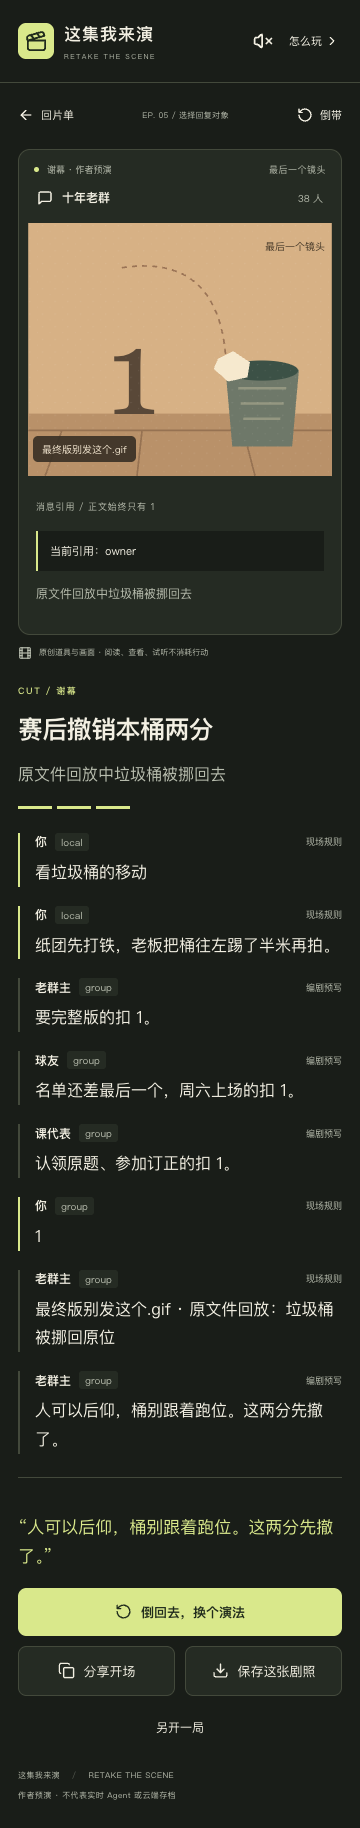
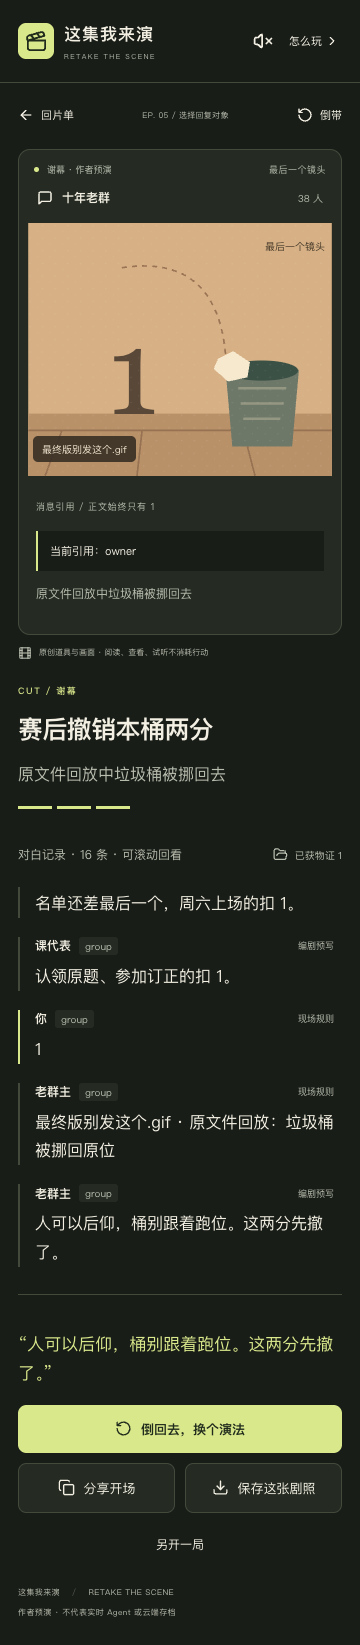
Refresh A handoff visuals with reproducible source provenance

diff --git a/tests/e2e/game.spec.ts b/tests/e2e/game.spec.ts
@@ -111,7 +111,7 @@ test('扣1引用草稿可撤回改选，确认前不落拍且正文固定', asyn
   await expect(draft.locator('.quote-parent')).toContainText('周六打球差一个');
   await expect(draft).toContainText('球友的球局楼');
   expect(await page.evaluate(() => localStorage.getItem('retake.authored.v1'))).toBe(saved);
-  await page.screenshot({ path: testInfo.outputPath('reply-draft.png'), fullPage: true });
+  await page.screenshot({ path: process.env.CAPTURE_EVIDENCE ? 'docs/evidence/reply-draft.png' : testInfo.outputPath('reply-draft.png') });
   await draft.getByRole('button', { name: '确认引用并发送 1' }).click();
   await expect(page.locator('[data-action="inspect_frame"]')).toBeEnabled();
   await page.locator('[data-action="inspect_frame"]').click();
@@ -158,7 +158,7 @@ test('倒回首拍后仍能从界面对照与回看旧线，不提交新动作',
   await expect(page.locator('.rewind-list').first().getByRole('button')).toHaveCount(0);
   await page.getByRole('button', { name: '对照：婚礼现场返工版' }).click();
   await expect(page.locator('.branch-compare')).toContainText('玩家可见的第一处差异');
-  await page.screenshot({ path: testInfo.outputPath('first-beat-replay.png'), fullPage: true });
+  await page.screenshot({ path: process.env.CAPTURE_EVIDENCE ? 'docs/evidence/first-beat-replay.png' : testInfo.outputPath('first-beat-replay.png') });
   await page.locator('.rewind-list').nth(1).getByRole('button', { name: /婚礼现场返工版/ }).click();
   await expect(page).toHaveURL(oldRoute);
   await expect(page.locator('.dialogue-line p')).toHaveText(oldEvents);
@@ -431,6 +431,7 @@ test('固定A/B交接状态可直接打开，不修改本机存档', async ({ pa
     await page.goto(`/#/preview/${state}`);
     await expect(page.locator('.play-page')).toBeVisible();
     await expect(page.locator('.play-topline')).toContainText('固定交接预览');
+    if (process.env.CAPTURE_EVIDENCE) await page.screenshot({ path: `docs/evidence/preview-${state}.png`, fullPage: true });
   }
   expect(await page.evaluate(() => localStorage.getItem('retake.authored.v1'))).toBeNull();
 });
@@ -522,7 +523,10 @@ test('首页多尺寸无横滚，主题变量在实际页面生效', async ({ pa
   for (const width of [360, 768, 1440]) {
     await page.setViewportSize({ width, height: 780 });
     expect(await page.evaluate(() => document.documentElement.scrollWidth <= innerWidth)).toBe(true);
-    if (process.env.CAPTURE_EVIDENCE) await page.screenshot({ path: `docs/evidence/catalog-${width}.png`, fullPage: true });
+    if (process.env.CAPTURE_EVIDENCE) {
+      await page.evaluate(() => new Promise<void>(resolve => requestAnimationFrame(() => requestAnimationFrame(() => resolve()))));
+      await page.screenshot({ path: `docs/evidence/catalog-${width}.png`, fullPage: true });
+    }
   }
   await page.evaluate(() => {
     document.documentElement.style.setProperty('--site-accent', '#123456');

diff --git a/docs/AB-HANDOFF.md b/docs/AB-HANDOFF.md
@@ -28,9 +28,9 @@
 | 扣1点选后确认、草稿改选（工程稿5.5/T07） | 引用原消息与固定正文草稿；取消及Escape不写存档；跨楼最终接龙验证2条reply_sent与实际父消息因果；站点模拟父消息缺失时拒绝及断网原参数重试 | 本机通过；真实触屏设备待验 |
 | 片单上次结局（设计稿1）与首拍旧线入口（工程稿3） | 新局/分支未结束时保留上次结局且继续新路由；完成新结局后替换；首拍经界面对照和回看旧线，不用直接跳旧URL代替入口 | 本机通过 |
 | 360px、静音、全五集键盘 | 15手机路径默认静音；5项真实Tab/Enter从片单到结局，均开启减少动画并检查无横滚 | 本机通过；不以单集通过代替全五集 |
-| 封面与投稿材料 | 4张实际下载封面、15手机截图、五部分作品帖草稿；新增7项分享/封面失败路径及360px临时截图走读 | 本机素材与降级路径已交；真实手机、账号、Qoder过程证据与正式链接待补 |
+| 封面与投稿材料 | 29张最新界面素材及来源清单（见下文）、五部分作品帖草稿；7项分享/封面失败路径与实际PNG下载检查 | 本机素材与降级路径已交；真实手机、账号、Qoder过程证据与正式链接待补 |
 | 接真接口、公开五集抽检、线上盲玩 | 工程稿11/22、11/26–29及发布验收要求 | 依赖 B 真实入口/候选发布和真实访客，未完成 |
-| A/B交流与及时回填 | 本文含版本、请求、字段、命令、结果、限制与接入步骤；A源码提交 `6eb9032` 已授权推送并核对远程SHA | 工作分支已远程交付；未合入 main、未创建远程工单或PR |
+| A/B交流与及时回填 | 本文含版本、请求、字段、命令、素材来源、结果、限制与接入步骤；界面源码 `fbd41a7` 已授权推送并核对远程SHA | 工作分支已远程交付；未合入 main、未创建远程工单或PR |
 
 ## B 首批接口交接
 
@@ -102,9 +102,35 @@
 
 - 2026-11-19 21:43–21:50：按原要求审计并复现4项失败：扣1无草稿、首拍倒带后入口禁用、倒带/另开清掉片单上次结局。修复后新增4项作者预演/UI与2项站点模拟检查，覆盖取消和Escape零写入、跨楼确认的实际父消息因果、父消息不可见时禁止发送、断网原楼层重试、首拍旧线只读回看及片单结局更新。新增测试最初误用楼层模板ID和非原文，已改为当前投影事件ID与作者原文，未改原始验收JSON。360px草稿与首拍旧线截图已走读；全量命令通过62/62单测、75/75本机浏览器检查（2.4分钟）、双模式构建与站点排除门禁。当前43项作者预演/UI、32项站点模拟。真实抽检已同步扣1键盘确认，仅列出6项检查，未运行真实候选版；远端只读查询仍只有main与A分支、没有开放PR，不推断B在其他位置的工作状态。
 
+## 当前素材与来源
+
+`docs/evidence/` 共29张PNG，对应界面源码 `fbd41a76771ba34aa7648cbf71f7cd5cad101e2f`、契约1.0、剧包1.0.0。2026-11-19 21:53–21:59（北京时间）由本机Chrome独立上下文采集，默认静音；本次只调整截图采集脚本，没有改动运行代码或剧包。手机视口为360×780，全页截图允许高度超过780；滚动对白框显示当时可见片段，不代表截图包含全部历史。
+
+| 素材 | 文件 | 尺寸与边界 |
+|---|---|---|
+| 15个作者结局 | `{wedding,office,romance,hiss,reply}-{01,02,03}-mobile.png` | 宽360的全页截图；对应原始15条路径，不是真实云角色生成 |
+| 三尺寸片单 | `catalog-{360,768,1440}.png` | 分别宽360/768/1440，全页；不代表三种真实设备 |
+| 四张下载封面 | `wedding-01-cover.png`、`romance-03-cover.png`、`hiss-02-cover.png`、`reply-02-cover.png` | 均900×1200；实际下载文件已保存，不是下载按钮的截图 |
+| 五种固定交接状态 | `preview-{ready,pending,consent,ended,rewind}.png` | 宽360全页；明确标记固定预览，不写存档；pending不是实际等待中的云任务 |
+| 扣1撤回改选后的草稿 | [reply-draft.png](./evidence/reply-draft.png) | 360×780当前视口；原消息、固定正文和确认/撤回按钮 |
+| 首拍旧线入口与对照 | [first-beat-replay.png](./evidence/first-beat-replay.png) | 360×780当前视口；弹窗可滚动，截图不声称展示全部对照文本 |
+
+采集命令与实际结果：
+
+```sh
+PLAYWRIGHT_CHANNEL=chrome CAPTURE_EVIDENCE=1 npm run test:e2e -- tests/e2e/game.spec.ts --grep '作者预演 |扣1引用草稿|倒回首拍后|仅键盘与减少动画|固定A/B交接|首页多尺寸'
+# 20/20通过（43.5秒）；build:site、类型检查及预演产物排除门禁通过
+PLAYWRIGHT_CHANNEL=chrome CAPTURE_EVIDENCE=1 npm run test:e2e -- tests/e2e/game.spec.ts --grep '首页多尺寸'
+# 片单采集修正后1/1通过（1.7秒），重新生成三种尺寸
+```
+
+图像走读发现首次768/1440片单截出了重复页头；独立浏览器DOM只有一个页头和片单，重新打开的页面显示正常。采集脚本改为视口变化后等待重绘，再截图；复采的三种尺寸已逐张打开确认正常，没有为截图改动产品界面。29张均核对PNG格式、文件数和尺寸；人工走读16张：五种固定状态、两个弹窗、三种片单、`wedding-01`/`office-01`/`romance-03`/`hiss-02`/`reply-02`手机结局及婚礼封面。其余13张未在本轮逐张人工走读，15条结局路径均有浏览器断言。
+
+这次20项采集与1项复采不新增或替代21:50的62项单测/75项浏览器全量通过记录。所有归档图仅证明本机预演或固定UI；不能用作实际手机、Qoder开发过程、Cloud Agents运行或公开发布证据。真实联调、盲玩与投稿缺项维持未完成。
+
 ## 本机交付与 B 接入步骤
 
-- 2026-11-19经用户明确授权，A源码提交 `6eb9032931af59ed1c997767ce1af84604a1fc45` 已推送到 `origin/codex/a-playable-platform`；`git ls-remote` 回执与本机提交一致。首批A代码与测试基线为 `6eb9032`（62单测/34浏览器检查）；恢复、倒带、迟到响应与分享封面降级补丁及最新记录继续沿同一工作分支交付，真实抽检入口准备提交为 `6b8419d`；分享封面补丁为 `6e2f00f`，完整回看与物证入口为已推送并核对远程SHA的 `e32a3a5`；回执前原操作反馈为已推送的 `2fc6b6e`；引用草稿、首拍旧线入口与片单结局保留沿本分支交付，请使用最新提交并以当前62/75本机验收记录为准。
+- 2026-11-19经用户明确授权，A源码提交 `6eb9032931af59ed1c997767ce1af84604a1fc45` 已推送到 `origin/codex/a-playable-platform`；`git ls-remote` 回执与本机提交一致。首批A代码与测试基线为 `6eb9032`（62单测/34浏览器检查）；恢复、倒带、迟到响应与分享封面降级补丁及最新记录继续沿同一工作分支交付，真实抽检入口准备提交为 `6b8419d`；分享封面补丁为 `6e2f00f`，完整回看与物证入口为已推送并核对远程SHA的 `e32a3a5`；回执前原操作反馈为已推送的 `2fc6b6e`；引用草稿、首拍旧线入口与片单结局保留为已推送并核对远程SHA的 `fbd41a7`；本轮29张素材与来源记录沿同一分支交付，请使用最新提交并以当前62/75本机验收记录为准。
 - `main` 仍为 `25f4f0b`，没有合入 A 工作分支；没有创建 PR、Issue、发布站点或投稿。此前 GitHub API 复核未发现 B 交付，目前真实接口和公开候选版仍待 B 提供。
 - B 在自己的仓库执行 `git fetch origin codex/a-playable-platform`，确认该远程分支后在无未提交改动的工作区切换或新建联调分支；不要在 main 直接覆盖已有工作。以 `6eb9032` 的 A契约和剧包为首批接入基线，按下述步骤运行。
 - 在仓库根目录执行 `npm ci`、`npm run dev`，默认查看本机作者预演。查看固定交接状态：`/#/preview/ready`、`pending`、`consent`、`ended`、`rewind`；固定视图不修改存档。

diff --git a/docs/A-SUBMISSION-DRAFT.md b/docs/A-SUBMISSION-DRAFT.md
@@ -23,7 +23,9 @@
 
 ## 4. Qoder 开发与部署证据
 
-已归档本机浏览器证据：`docs/evidence/` 中15个结局手机全页截图、360/768/1440px片单截图和4张实际下载封面。构建、62项单测与75项浏览器检查已有通过记录，含五集真实Tab/Enter、静音及减少动画通关，以及恢复失败显式另开、旧局回读、倒带原请求重试、切页后迟到响应隔离，以及分享/封面失败时的手动复制和截图指引；其中32项站点检查使用模拟响应，只证明客户端行为；新增200/202回执前的原动作反馈，未确认提交不混入已发生对白，不提前宣称演员已接收。扣“1”已补提交前引用草稿和撤回改选，正文固定且确认前无写入；首拍倒带后仍可从界面回读旧线与对照，片单上次结局不被未结束新局覆盖。相关6项新增浏览器检查包含本机父消息因果及模拟站点原请求重试，不代表实际触屏设备通过。另有猫回环后完整对白及旧线回看检查，三种状态下物证可键盘打开、记录保持提交顺序且不产生写请求。7项分享/封面检查以本机固定结局复现浏览器能力失败，不是实际手机或公开站点通过证明；首批归档截图不代表最新对白区布局，最新临时截图仍属于本机回归。
+已归档本机浏览器证据：[素材目录](./evidence/) 中15个结局手机全页截图、360/768/1440px片单截图、4张实际下载封面、5种固定交接状态以及引用草稿/首拍旧线弹窗，共29张。2026-11-19 21:53–21:59（北京时间）采集，界面源码 `fbd41a76771ba34aa7648cbf71f7cd5cad101e2f`、剧包1.0.0，模式为本机作者预演；固定状态不是云端回合。20项素材采集检查通过，随后修正视口切换未完成重绘造成的片单截图重复页头，再通过1项片单复采并走读三种尺寸；来源与抽检范围见 [交接记录](./AB-HANDOFF.md#当前素材与来源)。
+
+构建、62项单测与75项浏览器检查已有通过记录，含五集真实Tab/Enter、静音及减少动画通关，以及恢复失败显式另开、旧局回读、倒带原请求重试、切页后迟到响应隔离，以及分享/封面失败时的手动复制和截图指引；其中32项站点检查使用模拟响应，只证明客户端行为；新增200/202回执前的原动作反馈，未确认提交不混入已发生对白，不提前宣称演员已接收。扣“1”已补提交前引用草稿和撤回改选，正文固定且确认前无写入；首拍倒带后仍可从界面回读旧线与对照，片单上次结局不被未结束新局覆盖。相关6项新增浏览器检查包含本机父消息因果及模拟站点原请求重试，不代表实际触屏设备通过。另有猫回环后完整对白及旧线回看检查，三种状态下物证可键盘打开、记录保持提交顺序且不产生写请求。7项分享/封面检查以本机固定结局复现浏览器能力失败，不是实际手机或公开站点通过证明；此次归档已对齐最新对白区布局，但静态全页图仅显示滚动框当时可见的片段，完整历史须通过回看验证。素材采集不增加全量测试通过数。
 
 另备 `npm run test:live` 的1项只读前置与5集手机抽检；当前仅验证拒绝预演及缺少地址/写入许可的门禁，未在真实候选版成功运行，不能计入通过数。
 

diff --git a/README.md b/README.md
@@ -43,6 +43,8 @@ PLAYWRIGHT_CHANNEL=chrome npm run test:e2e
 PLAYWRIGHT_CHANNEL=chrome CAPTURE_EVIDENCE=1 npm run test:e2e
 ```
 
+[本机素材归档](./docs/evidence/) 已更新至界面源码 `fbd41a7`：15结局、3种片单尺寸、4张下载封面、5种固定交接状态及2张草稿/旧线弹窗，共29张。采集命令、时间、尺寸与图像走读范围见 [素材来源记录](./docs/AB-HANDOFF.md#当前素材与来源)；不是实际手机、公开站点或Qoder开发过程证据。
+
 默认运行 **编剧预写 / 本机存档** 版本；这不是在线 Agent 或云端持久化验证。A/B 状态预览为 `/#/preview/ready`、`pending`、`consent`、`ended`、`rewind`；这些固定视图不写入本机存档。
 
 已知剧目的存档恢复失败时，可以显式“另开一局”；不会自动替换或删除旧存档，只有创建成功才更新上次游玩位置。创建响应丢失后，重试沿用同一 `createKey`；倒带失败会退出弹窗并保留检查点与 `forkKey` 供原操作重试。切页后，创建、回合续查、重试、预写、倒带和分支对照的迟到响应不会覆盖新页面与游玩位置。
@@ -71,6 +73,6 @@ RETAKE_LIVE_ALLOW_WRITES=1 PLAYWRIGHT_CHANNEL=chrome npm run test:live
 
 `src/` 为 A 前端与两个传输适配器，`shared/contracts/` 为待 B 复核的契约 v1，`content/episodes/` 与 `fixtures/` 为作者剧包及本地预演，`public/art/` 与 `public/sound/` 为原创素材，`tests/` 保存原始 15 路径、状态与界面验证。海报可用 `node scripts/export-art.mjs` 再生；哈气可用 `python3 scripts/create-sound.py` 再生。
 
-A 首批已验收源码提交为 `6eb9032`，已交付到 `origin/codex/a-playable-platform`；后续恢复与倒带补丁请取该工作分支最新提交，当前验收规模为62项单测和75项浏览器检查。`main` 尚未合入本轮代码。B 请从工作分支取用源码、剧包、截图和交接文档，按文档先联调婚礼。
+A 首批已验收源码提交为 `6eb9032`，已交付到 `origin/codex/a-playable-platform`；最新已验收界面源码为 `fbd41a7`（引用草稿、首拍旧线入口与上次结局保留），后续素材和交接记录请取该工作分支最新提交，当前验收规模为62项单测和75项浏览器检查。`main` 尚未合入本轮代码。B 请从工作分支取用源码、剧包、截图和交接文档，按文档先联调婚礼。
 
 正式发布由 B 按协作约定进行；本地构建与测试不能替代匿名云端、双角色、托管存储和发布验收。
